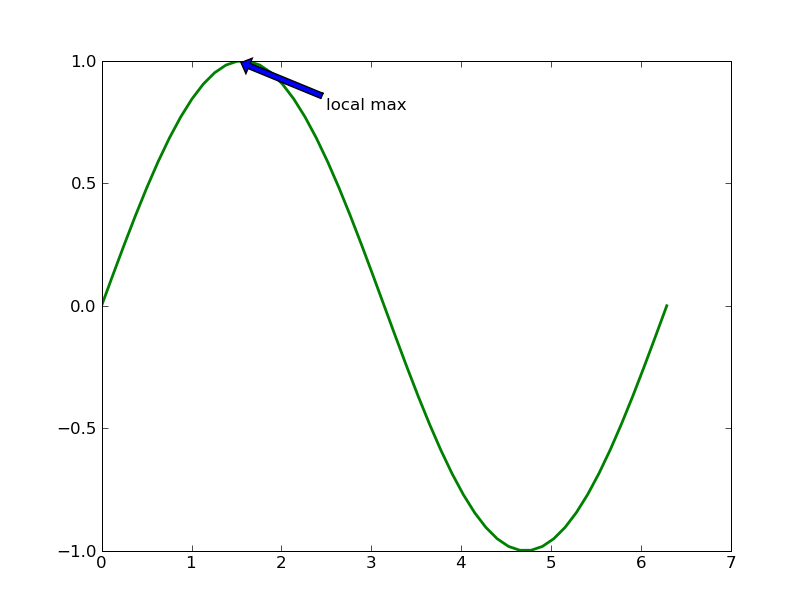
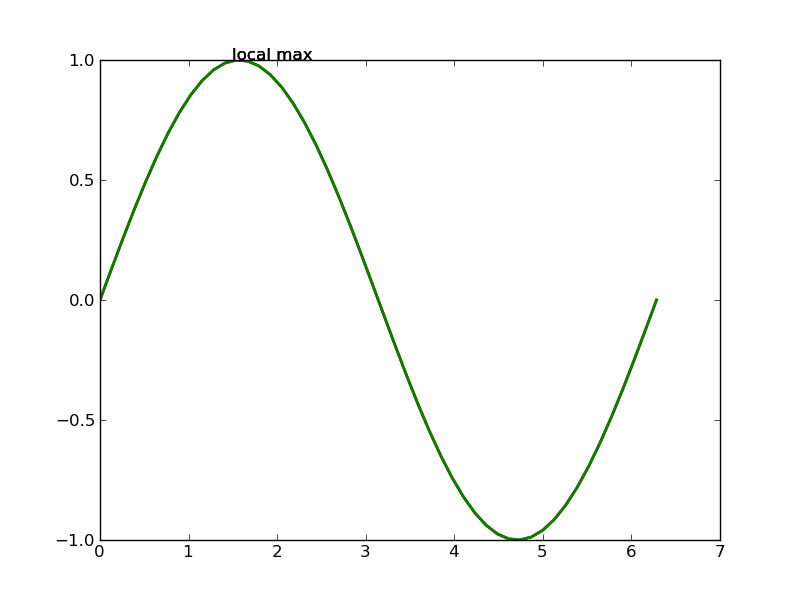
Updated day1 session1.

diff --git a/day1/session1.tex b/day1/session1.tex
@@ -49,7 +49,7 @@
 }
 \newcounter{time}
 \setcounter{time}{0}
-\newcommand{\inctime}[1]{\addtocounter{time}{#1}{\tiny \thetime\ m}}
+\newcommand{%\inctime}[1]{\addtocounter{time}{#1}{\tiny \thetime\ m}}
 
 \newcommand{\typ}[1]{\lstinline{#1}}
 
@@ -77,7 +77,7 @@
 \author[FOSSEE] {FOSSEE}
 
 \institute[IIT Bombay] {Department of Aerospace Engineering\\IIT Bombay}
-\date[] {31, October 2009\\Day 1, Session 1}
+\date[] {31 October, 2009\\Day 1, Session 1}
 %%%%%%%%%%%%%%%%%%%%%%%%%%%%%%%%%%%%%%%%%%%%%%%%%%%%%%%%%%%%%%%%%%%%%%
 
 %\pgfdeclareimage[height=0.75cm]{iitmlogo}{iitmlogo}
@@ -106,7 +106,7 @@
 % the following command: 
 %\beamerdefaultoverlayspecification{<+->}
 
-%\includeonlyframes{current,current1,current2,current3,current4,current5,current6}
+%%\includeonlyframes{current,current1,current2,current3,current4,current5,current6}
 
 %%%%%%%%%%%%%%%%%%%%%%%%%%%%%%%%%%%%%%%%%%%%%%%%%%%%%%%%%%%%%%%%%%%%%%
 % DOCUMENT STARTS
@@ -129,10 +129,10 @@
 	\item[Session 2] Sat 10:05--11:05
 	\item[Session 3] Sat 11:20--12:20
 	\item[Session 4] Sat 12:25--13:25
-        \item[Quiz -1]   Sat 14:25--14:40
+        \item[Quiz 1] Sat 14:25--14:40
         \item[Session 5] Sat 14:40--15:40
         \item[Session 6] Sat 15:55--16:55
-        \item[Quiz -2]   Sat 17:00--17:15
+        \item[Quiz 2] Sat 17:00--17:15
   \end{description}
 \end{frame}
 
@@ -143,10 +143,10 @@
 	\item[Session 2] Sun 10:05--11:05
 	\item[Session 3] Sun 11:20--12:20
 	\item[Session 4] Sun 12:25--13:25
-        \item[Quiz -1]   Sun 14:25--14:40
+        \item[Quiz 1] Sun 14:25--14:40
         \item[Session 5] Sun 14:40--15:40
         \item[Session 6] Sun 15:55--16:55
-        \item[Quiz -2]   Sun 17:00--17:15
+        \item[Quiz 2] Sun 17:00--17:15
   \end{description}
 \end{frame}
 
@@ -161,9 +161,9 @@
 
   \begin{block}{Goal: Successful participants will be able to}
     \begin{itemize}
-      \item Use Python as plotting, computational toolkit
-      \item Understand how Python can be used as scripting and problem solving language.
-      \item Train the students to use Python for the same
+      \item Use Python as plotting, computational tool
+      \item Understand how Python can be used as a scripting and problem solving language.
+      \item Train students for the same
     \end{itemize}
   \end{block}
 \end{frame}
@@ -172,14 +172,20 @@
 \begin{frame}
 \frametitle{Checklist}
   \begin{enumerate}
-    \item IPython: Type ipython at the command line. Is it available?
+    \item IPython
     \item Editor: We recommend scite.
-    \item Data files: Make sure you have all data files.
+    \item Data files: 
+      \begin{itemize}
+      \item \typ{sslc1.txt}
+      \item \typ{pendulum.txt}
+      \item \typ{points.txt}
+      \item \typ{pos.txt}
+      \end{itemize}
   \end{enumerate}
 \end{frame}
 
 \begin{frame}[fragile]
-\frametitle{Starting up...}
+\frametitle{Starting up \ldots}
 \begin{block}{}
 \begin{verbatim}
   $ ipython -pylab  
@@ -196,20 +202,20 @@ Exiting
 \end{lstlisting}
 \end{frame}
 
-\begin{frame}[fragile]
-\frametitle{Loops}
-Breaking out of loops
-\begin{lstlisting}     
-  In []: while True:
-    ...:     print "Hello, World!"
-    ...:     
-  Hello, World!
-  Hello, World!^C(Ctrl-C)
-  ------------------------------------
-  KeyboardInterrupt                   
+%% \begin{frame}[fragile]
+%% \frametitle{Loops}
+%% Breaking out of loops
+%% \begin{lstlisting}     
+%%   In []: while True:
+%%     ...:     print "Hello, World!"
+%%     ...:     
+%%   Hello, World!
+%%   Hello, World!^C(Ctrl-C)
+%%   ------------------------------------
+%%   KeyboardInterrupt                   
 
-\end{lstlisting}
-\end{frame}
+%% \end{lstlisting}
+%% \end{frame}
 
 \section{Plotting}
 
@@ -224,7 +230,7 @@ Breaking out of loops
     \begin{block}{}
     \begin{small}
 \begin{lstlisting}
-In []: x = linspace(0, 2*pi, 51)
+In []: x = linspace(0, 2*pi, 50)
 In []: plot(x, sin(x))
 \end{lstlisting}
     \end{small}
@@ -246,6 +252,7 @@ x[num - 1] = end
 \begin{block}{\typ{plot(x, y)}}
 plots \typ{x} and \typ{y} using default line style and color
 \end{block}
+%\inctime{10}
 \end{frame}
 
 \subsection{Decoration}
@@ -279,12 +286,11 @@ In []: ylabel('sin(x)')
   \begin{lstlisting}
 In []: clf()
 #Clears the plot area.
-In []: y = linspace(0, 2*pi, 51)
+In []: y = linspace(0, 2*pi, 50)
 In []: plot(y, sin(2*y))
 In []: xlabel('y')
 In []: ylabel('sin(2y)')
   \end{lstlisting}
-\emphbar{By default plots would be overlaid!}
 \end{frame}
 
 \subsection{More decoration}
@@ -308,11 +314,10 @@ In []: legend(['sin(2y)'])
 
 \begin{frame}[fragile]
 \frametitle{Legend Placement}
-
 \begin{block}{}
     \small
 \begin{lstlisting}
-In []: legend(['sin(2y)'], loc='center')
+In []: legend(['sin(2y)'], loc = 'center')
 \end{lstlisting}
 \end{block}
 
@@ -348,6 +353,7 @@ In []: legend(['sin(2y)'], loc=(.8,.1))
 \begin{center}
   \includegraphics[height=2in, interpolate=true]{data/loc}  
 \end{center}
+%\inctime{10}
 \end{frame}
 
 \begin{frame}[fragile]
@@ -361,8 +367,22 @@ In []: close()
 
 \section{Multiple plots}
 \begin{frame}[fragile]
+\frametitle{Overlaid Plots}
+\begin{lstlisting}
+In []: clf()
+In []: plot(y, sin(y))
+In []: plot(y, cos(y))
+In []: xlabel('y')
+In []: ylabel('f(y)')
+In []: legend(['sin(y)', 'cos(y)']) 
+\end{lstlisting}
+\emphbar{By default plots would be overlaid!}
+\end{frame}
+
+\begin{frame}[fragile]
 \frametitle{Plotting separate figures}
 \begin{lstlisting}
+In []: clf()
 In []: figure(1)
 In []: plot(y, sin(y))
 In []: figure(2)
@@ -381,23 +401,20 @@ In []: close()
 In []: plot(y, sin(y), 'g')
 
 In []: clf()
-In []: plot(y, sin(y), linewidth=2)
+In []: plot(y, sin(y), 'g', linewidth=2)
 \end{lstlisting}
 \vspace*{-0.2in}
 \begin{center}
   \includegraphics[height=2.2in, interpolate=true]{data/green}  
 \end{center}
+%\inctime{10}
 \end{frame}
 
 \begin{frame}[fragile]
 \frametitle{Annotating}
 \vspace*{-0.15in}
 \begin{lstlisting}
-In []: annotate('local max', 
-       xy=(1.5, 1), 
-       xytext=(2.5, .8),
-       arrowprops=dict(
-       shrink=0.05),)
+In []: annotate('local max', xy=(1.5, 1))
 \end{lstlisting}
 \vspace*{-0.2in}
 \begin{center}
@@ -415,7 +432,7 @@ In []: ymin, ymax = ylim()
 In []: xmax = 2*pi
 #Set the axes limits
 In []: xlim(xmin, xmax) 
-In []: ylim(ymin, ymax) 
+In []: ylim(ymin-0.2, ymax+0.2) 
   \end{lstlisting}
 \end{frame}
 
@@ -428,34 +445,29 @@ In []: ylim(ymin, ymax)
 \item Set axis limits to the range of x
 \end{enumerate}
 \begin{lstlisting}
-In []: x=linspace(-5*pi, 5*pi, 501)
+In []: x=linspace(-5*pi, 5*pi, 500)
 In []: plot(x, x, 'b')
 In []: plot(x, -x, 'b')
 \end{lstlisting}
 $\vdots$
 \end{frame}
 
-\section{Exercises}
 \begin{frame}[fragile]
 \frametitle{Review Problem \ldots}
-\small{
 \begin{lstlisting}
 In []: plot(x, sin(x), 'g', linewidth=2)
-In []: plot(x, x*sin(x), 'r', linewidth=3)
+In []: plot(x, x*sin(x), 'r', 
+            linewidth=3)
 \end{lstlisting}
-
 \begin{lstlisting}
-In []: legend(['x', '-x', 'sin(x)', 'xsin(x)'])
-In []: annotate('origin', 
-                 xy=(0, 0), 
-                 xytext=(0, -7),
-                 arrowprops=dict(
-                 shrink=0.05))
-In []: xlim(5*pi, 5*pi)
-In []: ylim(5*pi, 5*pi)
+In []: legend(['x', '-x', 'sin(x)', 
+               'xsin(x)'])
+In []: annotate('origin', xy = (0, 0))
+In []: xlim(-5*pi, 5*pi)
+In []: ylim(-5*pi, 5*pi)
 \end{lstlisting}
-}
 \end{frame}
+
 \begin{frame}
   \frametitle{What did we learn?}
   \begin{itemize}
@@ -467,6 +479,7 @@ In []: ylim(5*pi, 5*pi)
   \begin{block}{Note}
     \centerline{\alert{Don't Close \typ{IPython}}}
   \end{block}
+%%\inctime{10}
 \end{frame}
 
 \end{document}

diff --git a/day1/cheatsheet1.tex b/day1/cheatsheet1.tex
@@ -2,54 +2,43 @@
 \title{Interactive Plotting}
 \author{FOSSEE}
 \begin{document}
-\maketitle
-
+\date{}
+\vspace{-1in}
+\begin{center}
+\LARGE{Interactive Plotting}\\
+\large{FOSSEE}
+\end{center}
 \section{Starting up...}
+
 \begin{verbatim}
   $ ipython -pylab  
 \end{verbatim}
-Exiting Ipython
+Exiting 
 \begin{verbatim}     
-  In [1]: print "Hello, World!"
-  In [2]: ^D
-  Do you really want to exit ([y]/n)? y
+In [2]: (Ctrl-D)^D
+Do you really want to exit ([y]/n)? y
 \end{verbatim}
 Breaking out of loops
 \begin{verbatim}     
-  In [1]: while True:
-    ...:     print "Hello, World!"
-    ...:     
-  Hello, World!
-  Hello, World!^C
+In [1]: while True:
+   ...:     print "Hello, World!"
+   ...:     
+Hello, World!
+Hello, World!(Ctrl-C)^C
 \end{verbatim}
 
-\section{First Plot}
+\section{Plotting}
 \begin{verbatim}
-  In [2]: x=linspace(0, 2*pi, 50)
-
-  In [3]: plot(x,sin(x))
-  Out[3]: [<matplotlib.lines.Line2D object at 0xb6e5874c>]
+In [1]: x = linspace(0, 2*pi, 50)
+In [2]: plot(x,sin(x))
+In [3]: xlabel('x')
+In [4]: ylabel('sin(x)')
+In [5]: legend(['x', '-x', 'sin(x)', 'xsin(x)'])
+In [6]: annotate('origin', xy=(0, 0), xytext=(0, -7),
+                 arrowprops=dict(shrink=0.05))
+In [7]: xlim(5*pi, 5*pi)
+In [8]: ylim(5*pi, 5*pi)
+In [9]: clf() #Clears the Plot area
 \end{verbatim}
-
-\section{Labeling}
-\begin{verbatim}
-  In [4]: xlabel('x')
-
-  In [5]: ylabel('sin(x)')
-\end{verbatim}
-
-\section{Another example}
-\begin{verbatim}
-In [6]: clf()
-
-In [7]: y = linspace(0,10,101)
-
-In [8]: plot(y, exp(-y))
-
-In [9]: xlabel('y')
-
-In [10]: ylabel(r'$e^{-y}$')
-\end{verbatim}
-
 \end{document}
 
